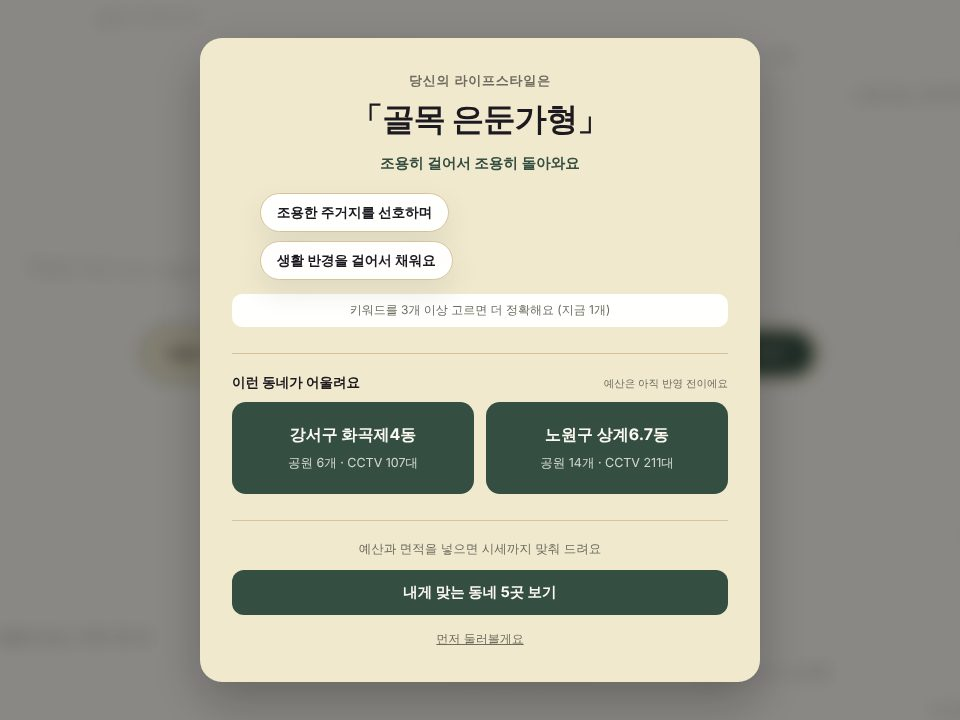
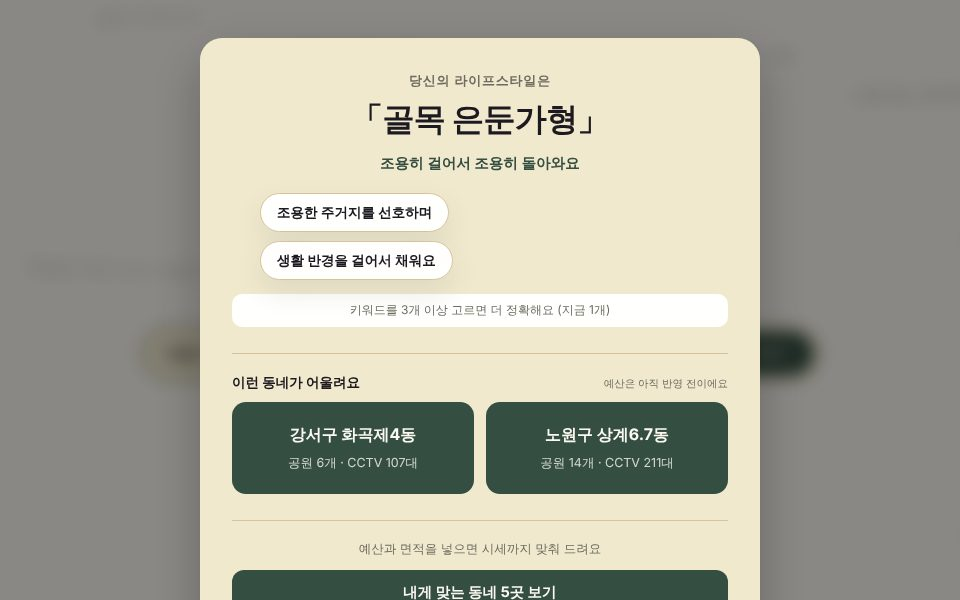
feat: 기능 화면에 POC · 관리자 화면 추가
- Safe-Farm: 내 밭 대시보드, 근거 붙은 AI 답변, 농약 희석배수 차단, AI 생육 리포트, 관리자 AI 주간 브리핑
- 오늘뭐멍냥: 관리자 고객 AI 분석(판매 전략)
- LIFE,FIT: 관리자 대시보드
- 캡처를 핵심 영역 중심 16:10으로 재편집

Claude-Session: https://claude.ai/code/session_01C1FAfik9iK1GvnNNo4AUuR

Changed region(s): [[0.1562, 0.03, 0.875, 1.0]]

diff --git a/index.html b/index.html
@@ -964,19 +964,22 @@ function stackHTML(p){
 // 기능 화면: 각 서비스 배포 페이지에서 캡처 (2026-10-12)
 const FEATS={
   "safe-farm":[
-    ["assets/sf_f_report.jpg","오늘의 리포트","밭 좌표 하나로 관측 · 예보 · 작물 기준을 받아 적산온도를 쌓고, 오늘 할 일을 데이터 출처와 함께 보여줍니다."],
-    ["assets/sf_f_gdd.jpg","작물별 생육 계산","논 · 밭은 파종일부터 열을 쌓고 과수는 다른 기준으로 셉니다. 작물마다 진행률이 따로 나옵니다."],
+    ["assets/sf_f_dash.jpg","내 밭 대시보드","등록한 밭마다 생육 일수와 오늘 할 일을, 판단 근거(관측 · 위성)와 함께 보여줍니다."],
+    ["assets/sf_f_ask.jpg","근거가 붙은 AI 답변","밭을 골라 질문하면 문서 검색 결과로 답하고, 참고한 근거 문서 수와 피드백 버튼을 함께 보여줍니다."],
+    ["assets/sf_f_guard.jpg","금지 주제 차단","농약 희석배수 질문은 LLM을 부르기 전에 걸러, 답변 대신 공식 확인처를 안내합니다."],
+    ["assets/sf_f_airep.jpg","AI 생육 리포트","누적 GDD · 강수 · 예보를 근거로 밭 전체와 작물별 상태를 요약합니다."],
     ["assets/sf_f_ndvi.jpg","위성 관측 비교","Sentinel-2 NDVI · NDMI로 같은 지역 논 · 밭 · 과수원 세 곳의 잎 상태를 날짜별로 비교합니다."],
-    ["assets/sf_f_plots.jpg","밭마다 다른 날씨","같은 상주라도 좌표와 해발에 따라 기온 · 바람이 달라, 값을 밭 단위로 따로 계산합니다."]],
+    ["assets/sf_f_admin.jpg","관리자 · AI 주간 브리핑","운영 지표로 주간 브리핑을 쓰고, 문장마다 쓴 지표를 표시해 숫자를 검증합니다."]],
   "twd":[
     ["assets/twd_f_today.jpg","로그인 첫 화면 추천","반려동물 프로필(축종 · 체구 · 알레르기)을 조건 칩으로 보여주고, 닭고기를 뺀 상품만 매칭도 순으로 추천합니다."],
     ["assets/twd_f_ask.jpg","자연어 질문 → 근거 상품","질문 답변에 쓰인 상품을 실제 구매 후기와 매칭도로 함께 보여줍니다."],
     ["assets/twd_f_cards.jpg","후기 근거 카드","추천마다 근거가 된 후기 원문과 가격 · 매칭도를 한 카드에 표시합니다."],
-    ["assets/twd_admin.jpg","관리자 대시보드","고객 분석과 판매 전략을 확인하는 관리자 화면입니다."]],
+    ["assets/twd_f_admin.jpg","관리자 · 고객 AI 분석","고객의 반려동물 정보와 구매 이력을 근거로 판매 전략을 생성하고, 근거가 된 구매 건을 함께 보여줍니다."]],
   "lifefit":[
     ["assets/lf_f_top5.jpg","조건 설정 → 추천 TOP 5","예산 · 면적과 생활 만족도 항목으로 행정동을 점수화해 지도 · 평면도와 함께 보여줍니다."],
     ["assets/lf_f_type.jpg","문장으로 찾기","‘애들 학원 보내기 좋은 조용한 동네’ 같은 문장을 라이프스타일 유형으로 바꾸고, 공원 · CCTV 수를 근거로 동네를 제안합니다."],
-    ["assets/lf_f_chat.jpg","후속 질문","추천 동네의 시설 데이터로 답합니다. 예: 학원을 종류별 개수로 안내"]]
+    ["assets/lf_f_chat.jpg","후속 질문","추천 동네의 시설 데이터로 답합니다. 예: 학원을 종류별 개수로 안내"],
+    ["assets/lf_f_admin.jpg","관리자 대시보드","AI 사용량 추이, 사용자별 검색 · 질문 수, 회원들의 희망 조건 평균을 한 화면에서 봅니다."]]
 };
 function featHTML(p){
   const f=FEATS[p.id]; if(!f||!f.length) return "";
